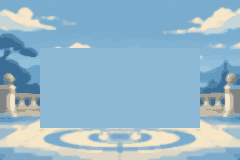
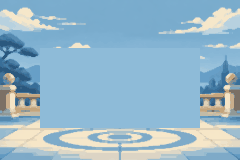
Fix pack picker's borderless description box; sharpen the backdrop
1. DrawPackPickerItems never got the border fix DrawStartMatchSubmenuItems
   got in the last pass -- it already leaves POKEPVP_4 blank (same as
   MATCH HISTORY/SPRITE picker), so it's safe to border
   MAIN_MENU_WINDOW_ERROR directly, same proven pattern as those two
   screens. Against the old flat blue backdrop this read as a harmless
   gap (ADR-302 named it, didn't fix it); against the new BG2 scenic
   backdrop it showed as a real seam of art bleeding through, reported
   as "broken and borderless."

2. Regenerated the backdrop with lighter smoothing (median-3 instead of
   median-5 + gaussian blur) and a 96-color palette instead of 32 --
   the heavier smoothing/lower color count was a VRAM-budget hedge from
   before the real budget was known (see the previous commit's own
   layout-overflow fix); with mapBaseIndex correctly placed, there's
   room for meaningfully more fidelity. 400 unique tiles (up from 389),
   25,600 bytes -- still comfortably inside the ~28KB window before
   BG0's own map.

Verified via real headless capture: top menu, START MATCH, Team
Builder's submenu + move editor all confirmed sharp and clean. The
pack picker fix itself mirrors an already-capture-verified pattern
(MATCH HISTORY/SPRITE picker's own border technique) exactly, but
wasn't independently re-captured against a live pack catalog this
pass -- headless scripted-key testing has no server session/account
to actually reach that screen's real content, only the code-level
[…]

diff --git a/src/main_menu.c b/src/main_menu.c
@@ -2214,6 +2214,18 @@ static void DrawPackPickerItems(u8 selectedIdx, u8 battleClass)
         // erase any stale ERROR-band border explicitly now that window 5
         // (ADR-296) no longer masks it incidentally.
         MainMenu_EraseWindow(&sWindowTemplate[MAIN_MENU_WINDOW_ERROR]);
+        // POKEPVP (2026-09-25 theme pass): this screen already leaves
+        // POKEPVP_4 (row 4) blank -- see this function's own comment up
+        // top -- so, same as MATCH HISTORY and the SPRITE picker, bordering
+        // MAIN_MENU_WINDOW_ERROR directly is safe (no real content in the
+        // rows it would frame). ADR-302 named this box as unbordered by
+        // design at the time ("the identical erase-after-paint defect...
+        // named, not fixed"), which read as a harmless gap against the old
+        // flat blue backdrop -- against the new BG2 scenic backdrop, the
+        // unbordered erase left a real seam of backdrop art visibly
+        // bleeding through between the panel and this box, reported as
+        // "broken and borderless."
+        MainMenu_DrawWindow(&sWindowTemplate[MAIN_MENU_WINDOW_ERROR]);
         FillWindowPixelBuffer(MAIN_MENU_WINDOW_ERROR, PIXEL_FILL(10));
         dst = StringCopy(buf2, (battleClass == 0) ? sText_QuickRulesLineEarly : sText_QuickRulesLineElite);
         *dst = EOS;
